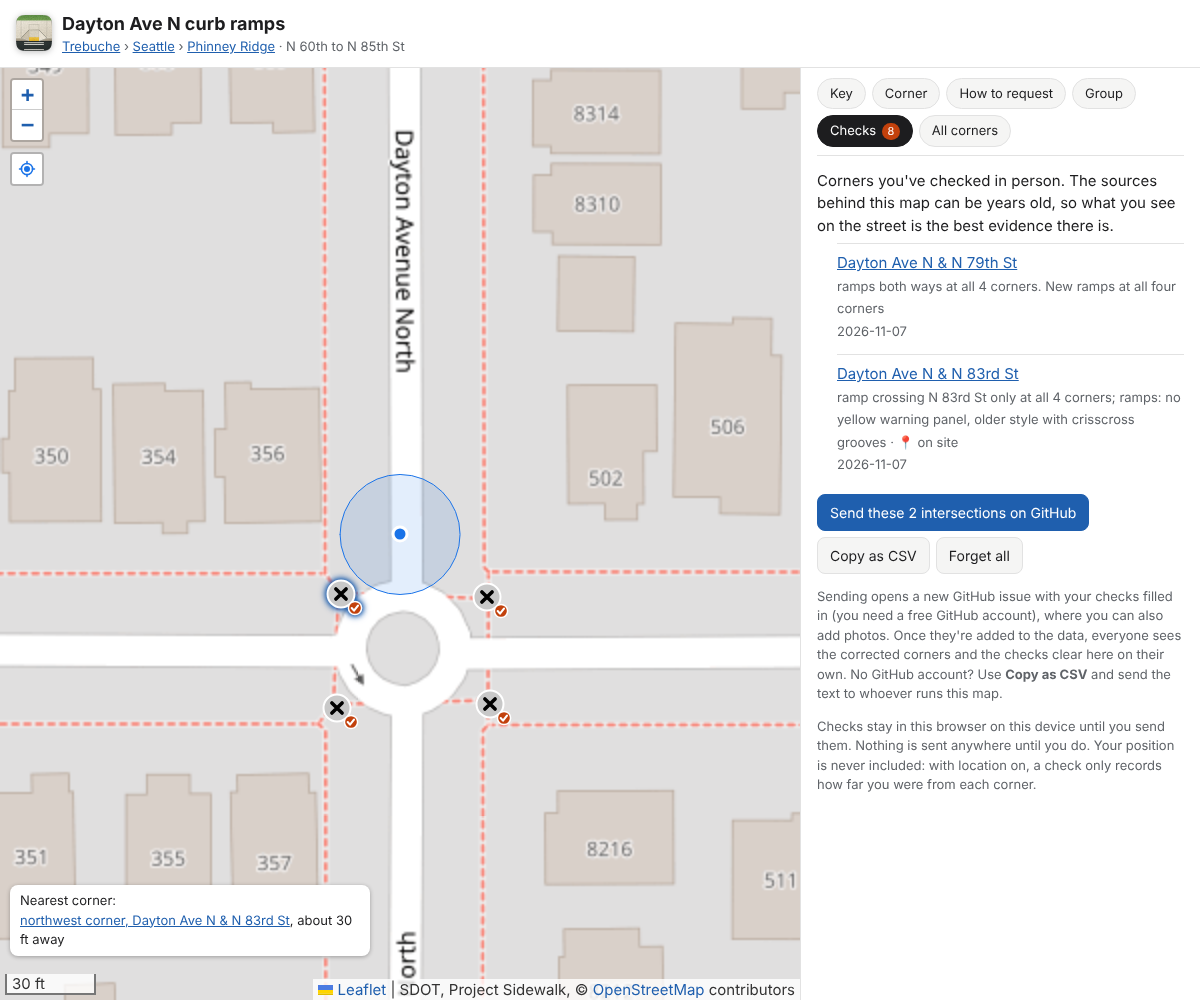
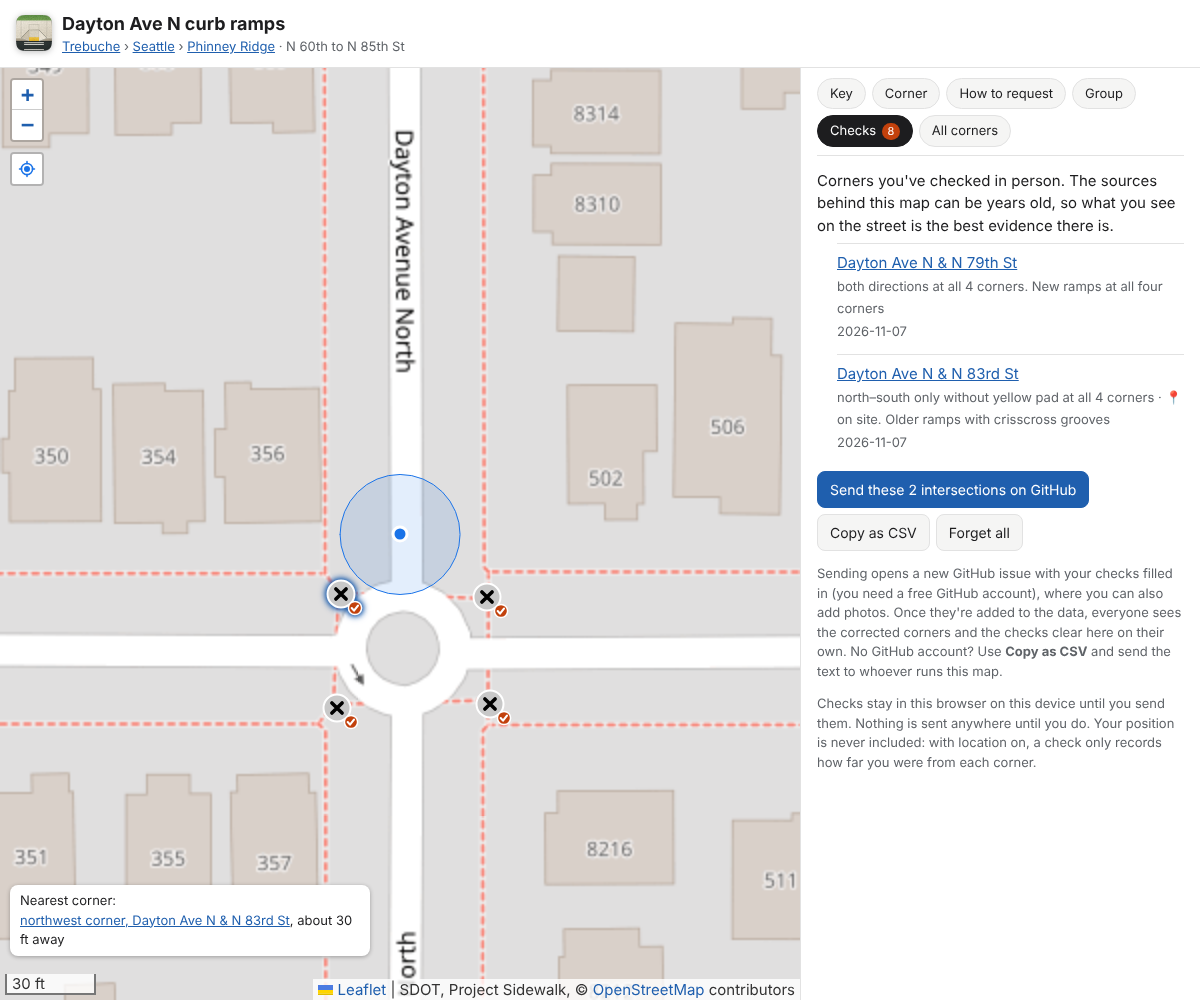
Checks: ask which way each corner's ramps go and whether they have a yellow pad
Replaces the intersection-wide condition checkboxes with two answers per
corner: both directions / north-south only / east-west only / no ramps, and
yellow pad yes / no. That's how neighbors describe what they see, and it
handles intersections where corners differ (two corners both ways, two one
way). A new yellow_pad column holds the pad answer; ramp_issues keeps
old_style, damaged and lip. 83rd St's rows move to the new columns.

Claude-Session: https://claude.ai/code/session_01Sq9k8ApfSWaMUjBKdeSPKZ

Changed region(s): [[0.6783, 0.372, 0.9867, 0.806], [0.7092, 0.279, 0.9867, 0.31]]

diff --git a/docs/app.js b/docs/app.js
@@ -165,7 +165,9 @@ const RAMP_ISSUES = {
 const issueList = v => (v || "").split("+").filter(k => RAMP_ISSUES[k]);
 const issuesText = v => issueList(v).map(k => RAMP_ISSUES[k][1]).join(", ");
 // The ramp issues that apply to a corner: your own check first, then the published one.
-const rampIssues = c => (checks[c.corner_id] ? checks[c.corner_id].issues : c.field_issues) || "";
+// A check's yellow-pad answer ("yes"/"no") is kept apart from its other issues.
+const checkIssues = k => [...issueList(k.issues).filter(i => i !== "no_warning"), ...(k.pad === "no" ? ["no_warning"] : [])].join("+");
+const rampIssues = c => (checks[c.corner_id] ? checkIssues(checks[c.corner_id]) : c.field_issues) || "";
 function upgradeText(c) {
   if (!issuesText(rampIssues(c)) || c.overall === "missing") return "";
   const plural = c.overall === "present" && needsOf(c).length > 1;
@@ -179,7 +181,7 @@ function evidence(c) {
   const out = [];
   const k = checks[c.corner_id];
   const iss = s => (issuesText(s) ? ` Ramp condition: ${issuesText(s)}.` : "");
-  if (k) out.push(`Checked in person on ${k.date}: ${checkText(c, k.ramps_for)}.${iss(k.issues)}${k.notes ? ` ${k.notes}` : ""}`);
+  if (k) out.push(`Checked in person on ${k.date}: ${checkText(c, k.ramps_for)}.${k.pad === "yes" ? " Yellow warning panel: yes." : ""}${iss(checkIssues(k))}${k.notes ? ` ${k.notes}` : ""}`);
   else if (c.field_date) out.push(`A neighbor checked in person on ${c.field_date}: ${checkText(c, c.field_covers || "none")}.${iss(c.field_issues)}${c.field_notes ? ` ${c.field_notes}` : ""}`);
   if (c.city === "no record") out.push("SDOT's curb ramp inventory has no ramp recorded at this corner.");
   else if (c.city === "unassessed") out.push("SDOT's inventory only has unassessed placeholder records here (no built ramp).");
@@ -466,7 +468,6 @@ function renderCorner() {
   const mine = checks[c.corner_id];
   const here = intersectionCorners(c);
   const noteNow = here.map(x => checks[x.corner_id]?.notes).find(Boolean) || "";
-  const issuesNow = here.map(x => checks[x.corner_id]?.issues).find(Boolean) || "";
 
   el.innerHTML = `
     <h2 class="corner-title">${esc(cornerTitle(c))}</h2>
@@ -499,24 +500,29 @@ function renderCorner() {
       <p class="small">If the map is wrong, say what you saw at each corner of this intersection. It's saved
         in this browser, so you can do a whole walk and send everything at once from
         <button class="link" type="button" data-goto="checks">Checks</button>.</p>
-      <table class="check-grid">${here.map(x => `<tr${x.corner_id === c.corner_id ? ' class="here"' : ""}>
-        <th scope="row"><label for="ck-${esc(x.corner)}">${esc(x.corner)}</label></th>
-        <td><select id="ck-${esc(x.corner)}" name="${esc(x.corner_id)}">${checkOptions(x).map(([v, label]) =>
-          `<option value="${v}"${(checks[x.corner_id]?.ramps_for || "") === v ? " selected" : ""}>${esc(label)}</option>`).join("")}
-        </select></td></tr>`).join("")}
+      <table class="check-grid">
+        <tr><th scope="col">Corner</th><th scope="col">Ramps</th><th scope="col">Yellow pad</th></tr>
+        ${here.map(x => {
+          const k = checks[x.corner_id] || {};
+          const opt = (v, label, cur) => `<option value="${v}"${(cur || "") === v ? " selected" : ""}>${esc(label)}</option>`;
+          return `<tr${x.corner_id === c.corner_id ? ' class="here"' : ""}>
+          <th scope="row">${esc(x.corner)}</th>
+          <td><select name="${esc(x.corner_id)}" aria-label="${esc(x.corner)} corner: ramps">
+            ${checkOptions(x).map(([v, label]) => opt(v, label, k.ramps_for)).join("")}</select></td>
+          <td><select name="pad-${esc(x.corner_id)}" aria-label="${esc(x.corner)} corner: yellow pad">
+            ${opt("", "?", k.pad)}${opt("yes", "Yes", k.pad)}${opt("no", "No", k.pad)}</select></td></tr>`;
+        }).join("")}
       </table>
+      ${needsOf(c).length > 1 ? `<p class="small">North–south: ramps for crossing ${esc(baseStreet(c))}. East–west: ramps for crossing ${esc(MAIN_STREET)}.
+        A corner should have both. "Yellow pad" is the panel of raised bumps at the bottom of the ramp.</p>` : ""}
       <div class="buttons">
-        <button class="button" type="button" data-fill="ramps">All have ramps</button>
+        <button class="button" type="button" data-fill="ramps">All both directions</button>
+        <button class="button" type="button" data-fill="pads">All have yellow pads</button>
         <button class="button" type="button" data-fill="none">None have ramps</button>
       </div>
-      <fieldset class="issues"><legend>The ramps that are there (check any that apply)</legend>
-        ${Object.entries(RAMP_ISSUES).map(([k, [label]]) => `<label class="check"><input type="checkbox" name="issue" value="${k}"
-          ${issueList(issuesNow).includes(k) ? "checked" : ""}> ${esc(label)}</label>`).join("")}
-        <p class="small">Applies to every corner above that has a ramp. If corners differ, say so in the note.</p>
-      </fieldset>
       <label class="field">Note (optional)
         <input type="text" name="notes" maxlength="200" value="${esc(noteNow)}"
-          placeholder="e.g. new ramps, no yellow warning panel at SW"></label>
+          placeholder="e.g. older ramps with crisscross grooves"></label>
       <p class="small" id="check-where">${whereText(c)}</p>
       <div class="buttons"><button class="button primary" type="submit">Save</button></div>
       <p class="small">Choose "Not checked" to remove a check.</p>
@@ -556,17 +562,18 @@ document.getElementById("corner-detail").addEventListener("click", e => {
 document.getElementById("corner-detail").addEventListener("click", e => {
   const b = e.target.closest("[data-fill]");
   if (!b) return;
-  b.form.querySelectorAll("select").forEach(sel => {
-    const x = byId.get(sel.name);
-    sel.value = b.dataset.fill === "none" ? "none" : needsOf(x).join("+");
-  });
+  for (const x of intersectionCorners(byId.get(state.corner))) {
+    const ramps = b.form.elements[x.corner_id], pad = b.form.elements[`pad-${x.corner_id}`];
+    if (b.dataset.fill === "ramps") ramps.value = needsOf(x).join("+");
+    if (b.dataset.fill === "none") { ramps.value = "none"; pad.value = ""; }
+    if (b.dataset.fill === "pads") { pad.value = "yes"; if (!ramps.value || ramps.value === "none") ramps.value = needsOf(x).join("+"); }
+  }
 });
 document.getElementById("corner-detail").addEventListener("submit", e => {
   if (!e.target.matches("[data-check-form]")) return;
   e.preventDefault();
   const f = new FormData(e.target), date = new Date().toLocaleDateString("en-CA"); // YYYY-MM-DD, local
   const notes = String(f.get("notes") || "").trim().replace(/\s+/g, " ");
-  const allIssues = f.getAll("issue").join("+");
   let saved = 0;
   for (const x of intersectionCorners(byId.get(state.corner))) {
     const v = f.get(x.corner_id);
@@ -574,9 +581,11 @@ document.getElementById("corner-detail").addEventListener("submit", e => {
     else {
       const old = checks[x.corner_id];
       // Re-saving the same answer keeps its date and "sent" mark.
-      const fix = onSite(x), issues = v === "none" ? "" : allIssues;
-      checks[x.corner_id] = old && old.ramps_for === v && (old.notes || "") === notes && (old.issues || "") === issues &&
-        (!fix || old.distance_ft) ? old : { date, ramps_for: v, issues, notes, ...fix };
+      // Issues the form doesn't ask about (e.g. old_style from an earlier version) are kept.
+      const fix = onSite(x), pad = v === "none" ? "" : f.get(`pad-${x.corner_id}`) || "";
+      const issues = v === "none" ? "" : issueList(old?.issues).filter(i => i !== "no_warning").join("+");
+      checks[x.corner_id] = old && old.ramps_for === v && (old.pad || "") === pad && (old.notes || "") === notes &&
+        (!fix || old.distance_ft) ? old : { date, ramps_for: v, pad, issues, notes, ...fix };
       saved++;
     }
     applyCheck(x);
@@ -630,17 +639,19 @@ function intersectionCorners(c) {
 function checkOptions(c) {
   const n = needsOf(c);
   if (n.length === 1) return [["", "Not checked"], [n[0], "Ramp"], ["none", "No ramp"]];
-  return [["", "Not checked"], ["main+cross", "Ramps both ways"],
-    ["main", `Ramp crossing ${AREA.short} only`], ["cross", `Ramp crossing ${baseStreet(c)} only`], ["none", "No ramps"]];
+  // Every street so far runs north–south, so crossing it means walking east–west.
+  return [["", "Not checked"], ["main+cross", "Both directions"],
+    ["cross", "North–south only"], ["main", "East–west only"], ["none", "No ramps"]];
 }
 
 // ------------------------------------------------------------------ checks: review + send
 const csvCell = v => (/[",\n]/.test(v) ? `"${String(v).replace(/"/g, '""')}"` : String(v));
 function checksCsv(cs) {
-  return ["corner_id,date_checked,ramps_for,ramp_issues,notes,distance_ft,accuracy_ft",
+  return ["corner_id,date_checked,ramps_for,yellow_pad,ramp_issues,notes,distance_ft,accuracy_ft",
     ...cs.map(c => {
       const k = checks[c.corner_id];
-      return [c.corner_id, k.date, k.ramps_for, k.issues || "", k.notes || "", k.distance_ft ?? "", k.accuracy_ft ?? ""].map(csvCell).join(",");
+      const other = issueList(k.issues).filter(i => i !== "no_warning").join("+");
+      return [c.corner_id, k.date, k.ramps_for, k.pad || "", other, k.notes || "", k.distance_ft ?? "", k.accuracy_ft ?? ""].map(csvCell).join(",");
     }),
   ].join("\n");
 }
@@ -649,11 +660,12 @@ const answerLabel = (c, v) => checkOptions(c).find(([k]) => k === v)?.[1].replac
 function intersectionSummary(cs) {
   const byAnswer = new Map();
   for (const c of cs) {
-    const label = answerLabel(c, checks[c.corner_id].ramps_for);
+    const k = checks[c.corner_id];
+    const label = answerLabel(c, k.ramps_for) + (k.ramps_for === "none" ? "" : k.pad === "yes" ? " with yellow pad" : k.pad === "no" ? " without yellow pad" : "");
     byAnswer.set(label, [...(byAnswer.get(label) || []), c.corner]);
   }
   const total = intersectionCorners(cs[0]).length;
-  const issues = [...new Set(cs.map(c => issuesText(checks[c.corner_id].issues)).filter(Boolean))];
+  const issues = [...new Set(cs.map(c => issuesText(issueList(checks[c.corner_id].issues).filter(i => i !== "no_warning").join("+"))).filter(Boolean))];
   return [...byAnswer].map(([label, where]) =>
     `${label} ${where.length === total && total > 1 ? `at all ${total} corners` : `at ${where.join(", ")}`}`).join("; ") +
     (issues.length ? `; ramps: ${issues.join("; ")}` : "");

diff --git a/docs/style.css b/docs/style.css
@@ -71,7 +71,11 @@ h3 { font-size: 16px; margin: 0 0 4px; }
 .check-form .field input { display: block; width: 100%; margin-top: 3px; padding: 7px 9px; font: inherit;
   border: 1px solid var(--line); border-radius: 6px; background: var(--bg); color: var(--fg); }
 .check-grid { border-collapse: collapse; margin: 6px 0; width: 100%; }
-.check-grid th { text-align: left; font-size: 14px; width: 3.2em; padding: 4px 6px 4px 0; }
+.check-grid th { text-align: left; font-size: 14px; padding: 4px 6px 4px 0; }
+.check-grid th[scope=row] { width: 3em; }
+.check-grid th[scope=col] { font-size: 12px; font-weight: 600; color: var(--muted); padding-bottom: 0; }
+.check-grid th[scope=col]:last-child { width: 6em; }
+.check-grid td { padding: 3px 0 3px 6px; }
 .check-grid tr.here th { text-decoration: underline 3px var(--checked); text-underline-offset: 4px; }
 .check-grid select { width: 100%; padding: 6px 8px; font: inherit; font-size: 14px; border: 1px solid var(--line);
   border-radius: 6px; background: var(--bg); color: var(--fg); }

diff --git a/scripts/build.rb b/scripts/build.rb
@@ -457,8 +457,9 @@ end
 # Checks neighbors made in person (data/field-checks.csv, pasted from the map's
 # "Send checks" GitHub issues): which crossings had a ramp on the day.
 # ramps_for is "main", "cross", "main+cross" or "none". The latest check per corner wins.
-# ramp_issues says what's wrong with the ramps that are there ("no_warning+old_style";
-# also "damaged", "lip"). distance_ft and accuracy_ft (phone location when saved) are
+# yellow_pad is "yes", "no" or blank: whether the ramps have a detectable warning panel.
+# ramp_issues says what else is wrong with them ("old_style", "damaged", "lip", joined
+# with "+"); a "no" yellow_pad adds "no_warning" to field_issues. distance_ft and accuracy_ft (phone location when saved) are
 # kept for review, not used here.
 def load_field_checks
   path = File.join(ROOT, "data", "field-checks.csv")
@@ -477,13 +478,20 @@ def field_verdict(check, needs)
   [status, covered.sort.join("+"), (needs - covered)]
 end
 
+def field_issues(check)
+  issues = check["ramp_issues"].to_s.split("+")
+  issues.unshift("no_warning") if check["yellow_pad"].to_s == "no"
+  issues.uniq.join("+")
+end
+
 # Someone looked in person: that beats every remote source, unless the city
 # recorded work there after the check.
 def apply_field_check(row, check, needs)
   status, covers, gap = field_verdict(check, needs)
   date = check["date_checked"].to_s
   row.merge!("field" => status, "field_covers" => covers, "field_date" => date,
-             "field_issues" => status == "missing" ? "" : check["ramp_issues"].to_s,
+             "field_issues" => status == "missing" ? "" : field_issues(check),
+             "field_yellow_pad" => status == "missing" ? "" : check["yellow_pad"].to_s,
              "field_notes" => check["notes"].to_s)
   city_seen = row["city_last_observed"].to_s
   return false if !city_seen.empty? && city_seen > date
@@ -514,7 +522,7 @@ FIELDS = %w[
   ps ps_ramp_labels ps_noramp_labels ps_validated
   ps_ramp_max_severity ps_ramp_issues ps_image_date ps_label_ids
   osm osm_kerbs osm_last_edit osm_node_ids
-  field field_covers field_date field_issues field_notes
+  field field_covers field_date field_yellow_pad field_issues field_notes
   request_filed request_date request_ref request_status
 ].freeze
 

diff --git a/README.md b/README.md
@@ -353,11 +353,13 @@ intersection, then to a quadrant.
 ## Checking corners in person
 
 The sources can be years out of date, so the map lets neighbors record what they see.
-On any corner, **Checked it in person?** covers the whole intersection: one dropdown per
-corner (ramps both ways, a ramp for one crossing only, no ramps, or not checked), **All
-have ramps** / **None have ramps** shortcuts, checkboxes for what's wrong with the ramps
-that are there (no yellow warning panel, the older style with crisscross grooves,
-cracked or uneven, a lip at the street edge), and one note. There's no server: checks
+On any corner, **Checked it in person?** covers the whole intersection, with two answers
+per corner: which way its ramps go (**both directions**, **north–south only** for
+crossing the side street, **east–west only** for crossing the main street, **no ramps**, or
+not checked) and whether they have a **yellow pad** (the detectable warning panel).
+Older one-direction ramps without a pad, like every corner of Dayton & N 83rd St, are
+two taps per corner. Shortcuts fill in **All both directions**, **All have yellow
+pads** or **None have ramps**, and one note covers anything else. There's no server: checks
 are saved in the browser (`localStorage`, key `trebuche:checks`, shared by every
 street's map) and the corners are redrawn right away for that visitor, with an orange
 check. With location on (the locate button), the form says whether the phone is at the
@@ -375,18 +377,19 @@ is there for people without a GitHub account.
 To publish them, paste the rows into `data/field-checks.csv` and push:
 
 ```
-corner_id,date_checked,ramps_for,ramp_issues,notes,distance_ft,accuracy_ft
-dayton-78-NE,2026-11-07,main+cross,,,15,20
-dayton-83-NW,2026-11-07,cross,no_warning+old_style,,,
+corner_id,date_checked,ramps_for,yellow_pad,ramp_issues,notes,distance_ft,accuracy_ft
+dayton-80-NE,2026-11-07,main+cross,yes,,,15,20
+dayton-83-NW,2026-11-07,cross,no,old_style,,,
 ```
 
 `ramps_for` names the crossings that had a ramp: `main` (crossing the main street),
 `cross` (crossing the side street), `main+cross`, or `none`. The latest check for a
 corner wins over every other source and sets `overall` (a check that finds no ramp
 counts as confirmed missing), unless SDOT recorded work there after the check.
-`ramp_issues` lists what's wrong with the ramps that are there, joined with `+`:
-`no_warning` (no detectable warning panel, Standard Plan 422k), `old_style` (crisscross
-grooves), `damaged`, `lip`. Corners with any of them say **Needs upgrade**, and their
+`yellow_pad` is `yes`, `no` or blank (not noted). `ramp_issues` lists anything else
+wrong with the ramps, joined with `+`: `old_style` (crisscross grooves), `damaged`,
+`lip`; the form doesn't ask about these, but they can be added from an issue's notes. A
+`no` pad (Standard Plan 422k requires one) or any issue makes the corner say **Needs upgrade**, and their
 request text asks SDOT to upgrade the ramp as well as add any missing one.
 `distance_ft` and `accuracy_ft` are blank for checks saved without location; the build
 doesn't use them yet, they're there for whoever reviews the issue. The CSV
